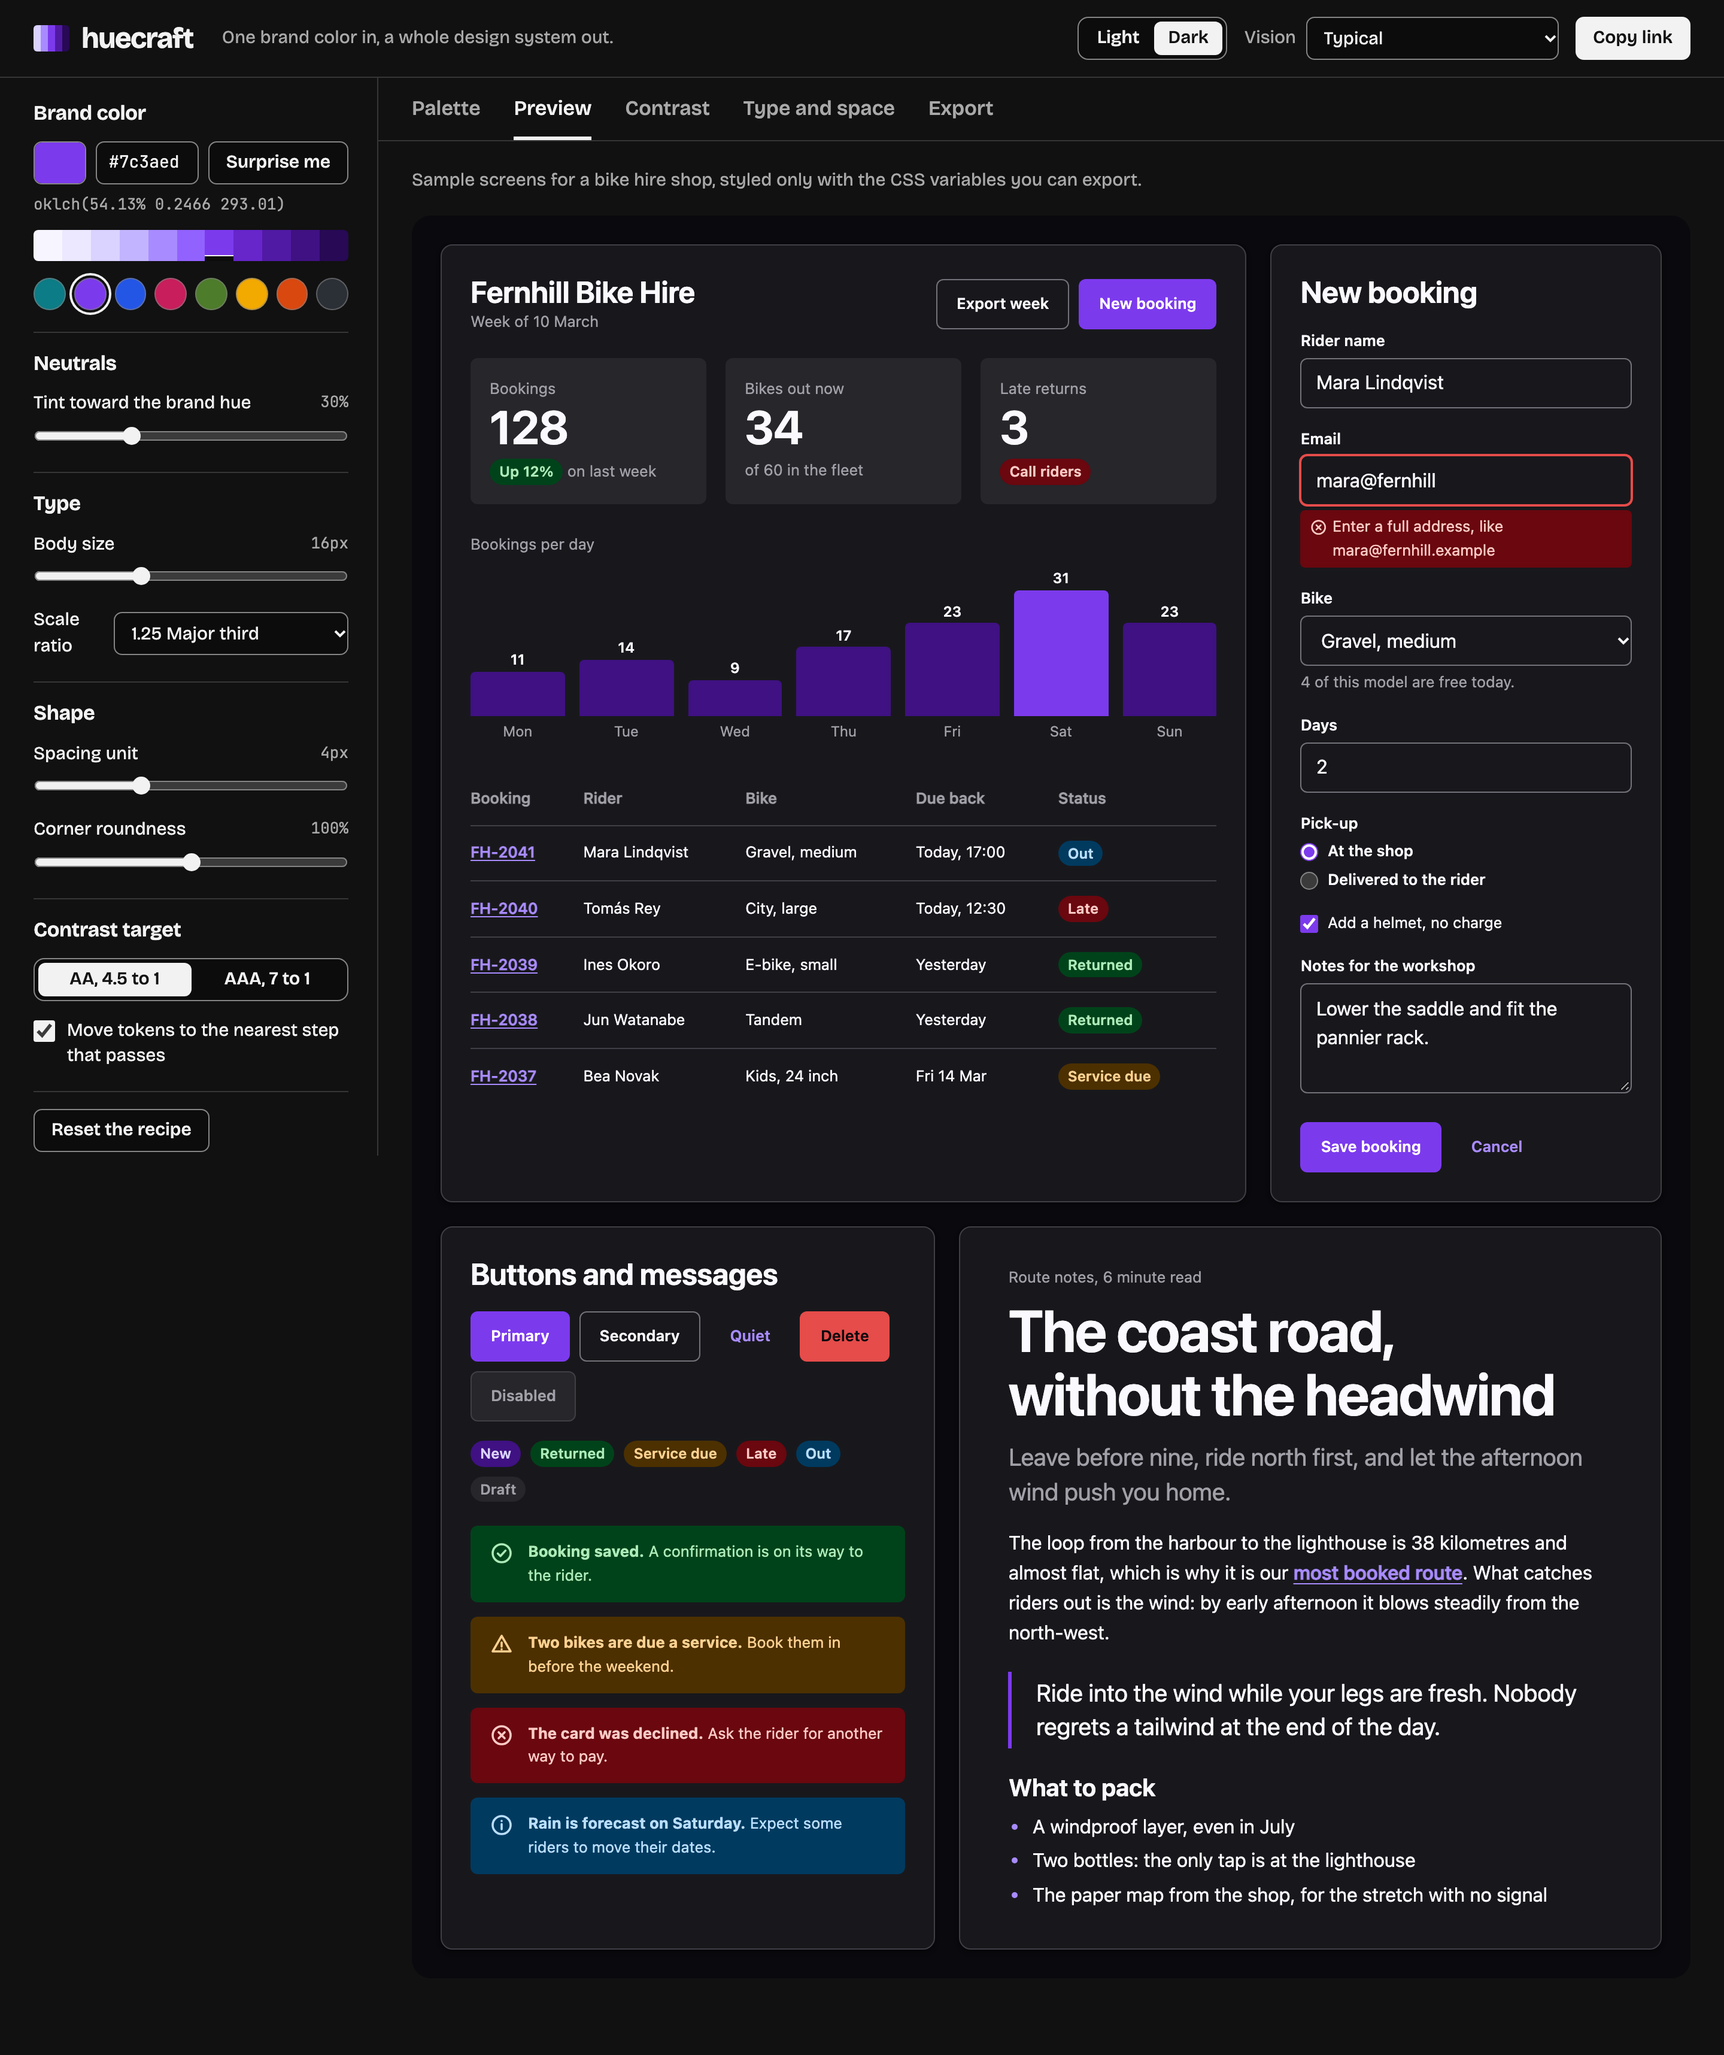
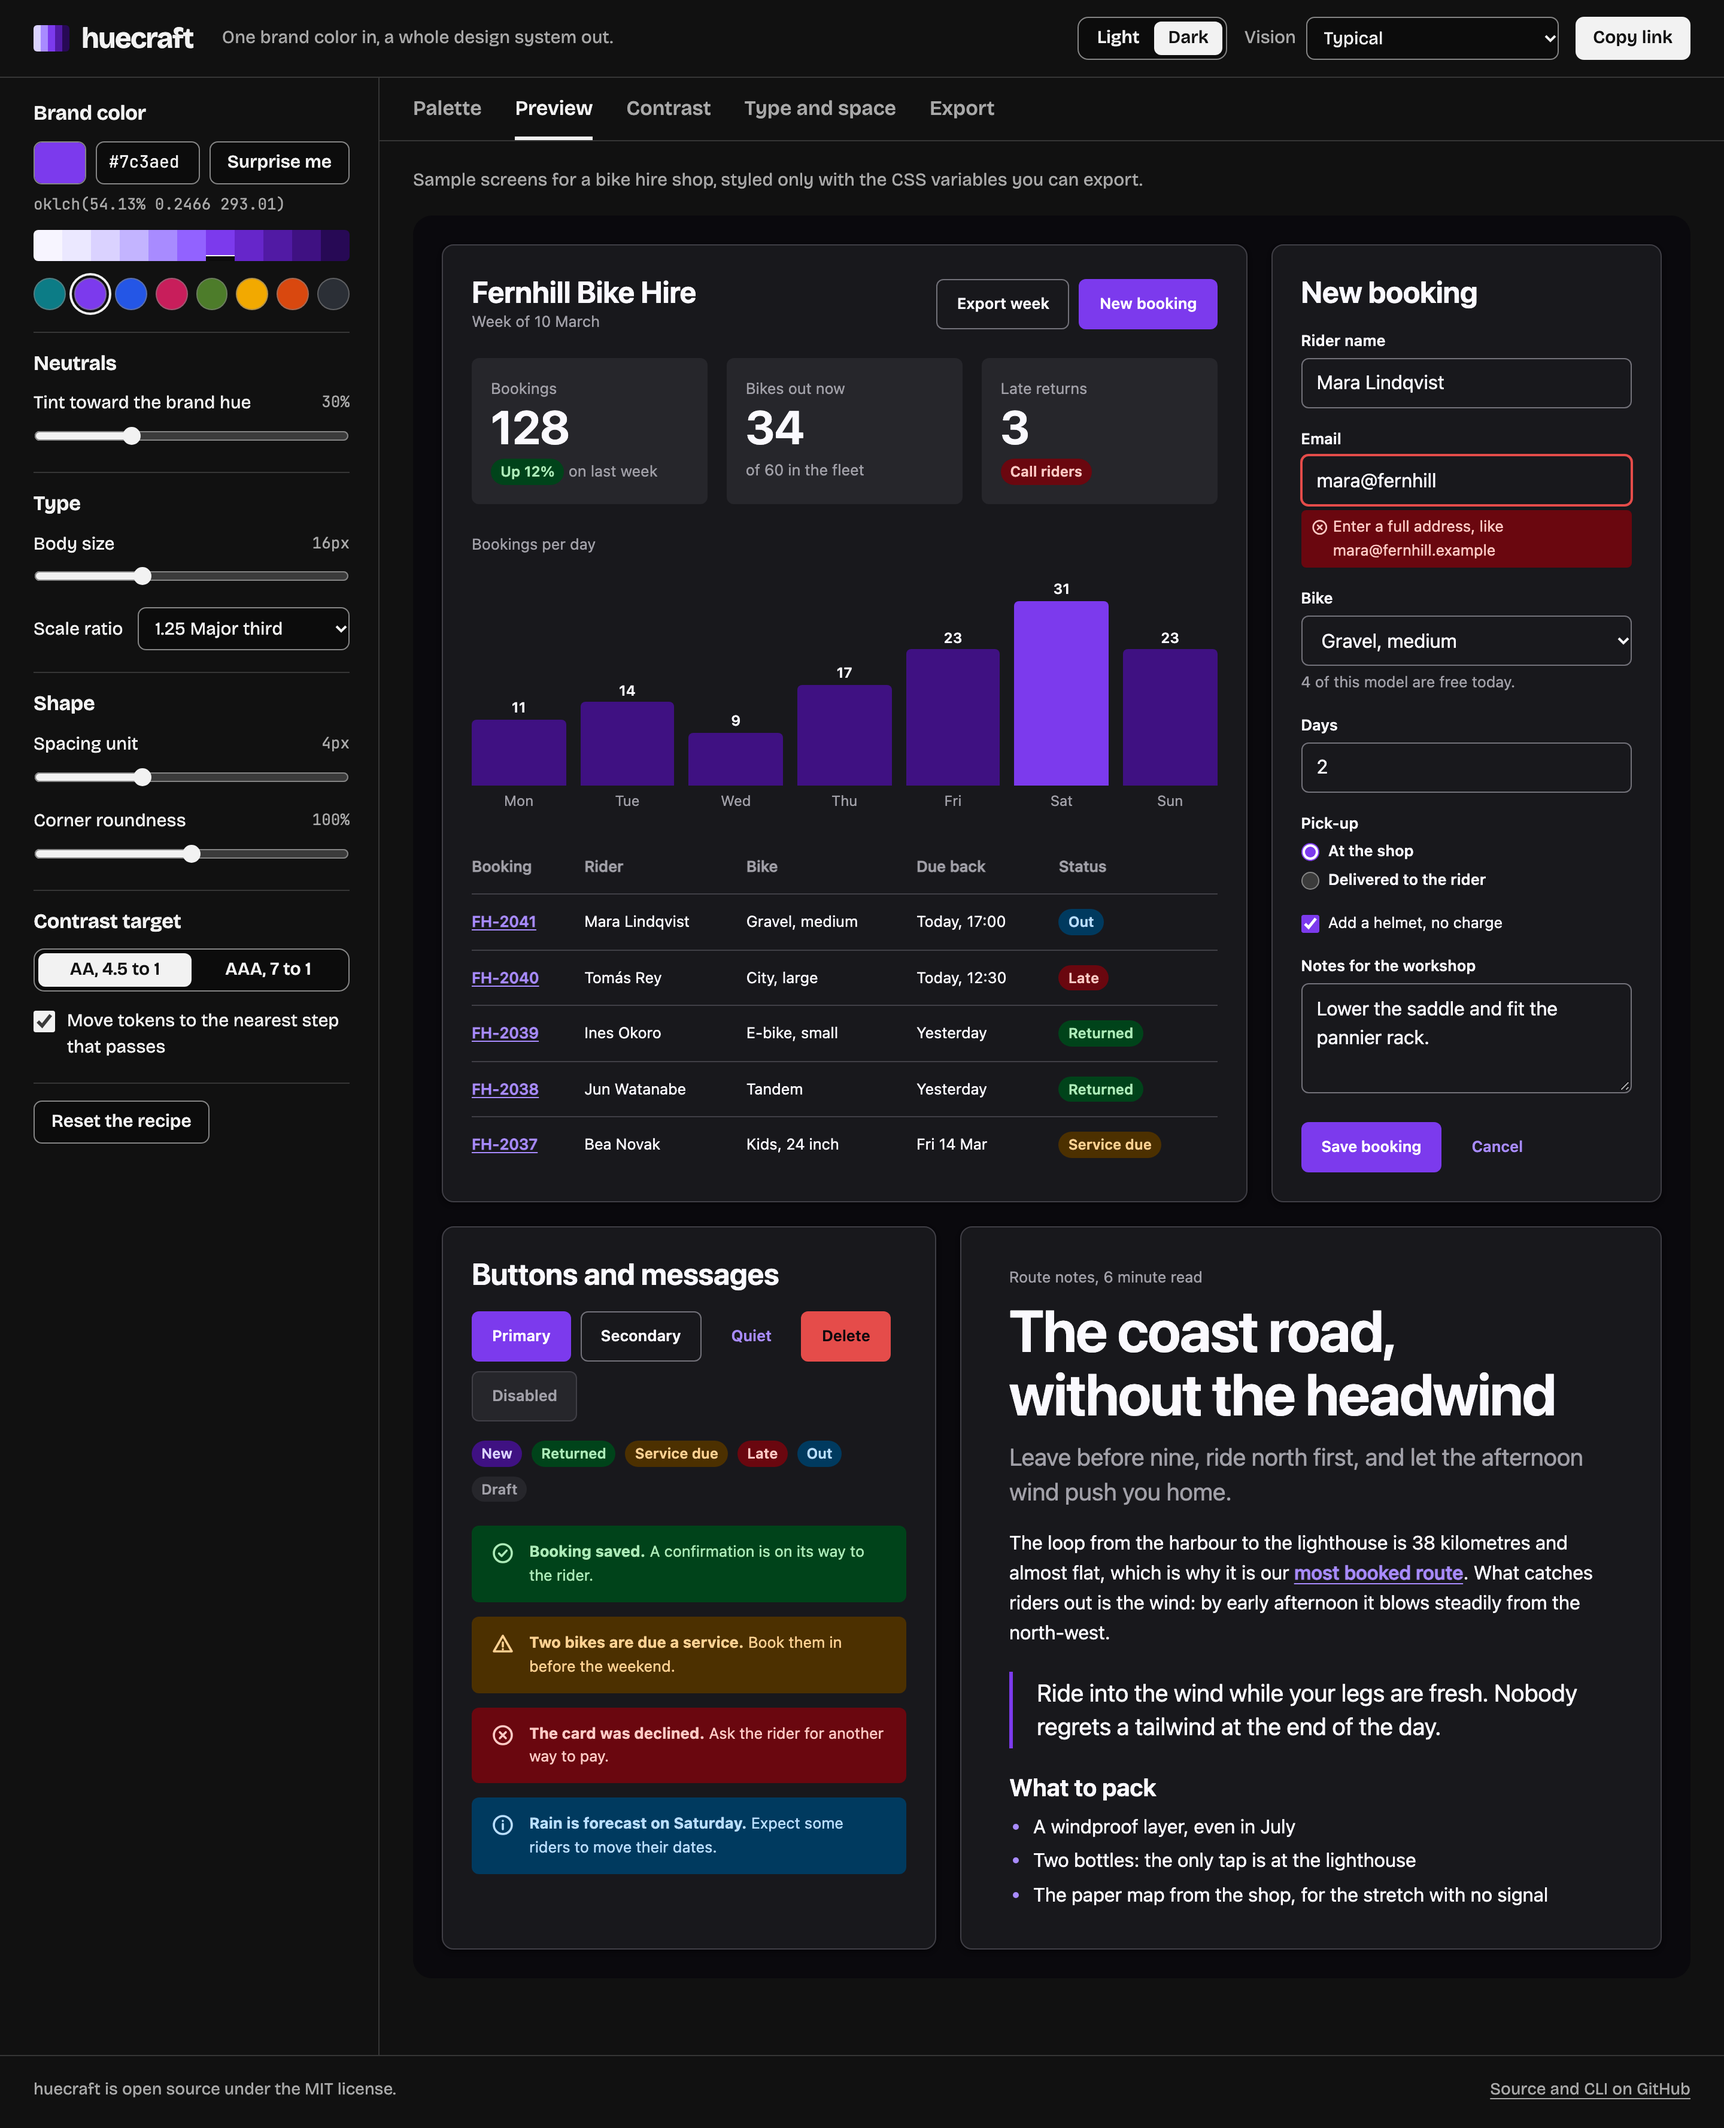
Refresh README screenshots, add phone views, record the design pass

diff --git a/CHANGELOG.md b/CHANGELOG.md
@@ -5,8 +5,30 @@ The format follows [Keep a Changelog](https://keepachangelog.com/en/1.1.0/).
 
 ## [Unreleased]
 
-Changes from an independent first-run review: a fresh clone, the README followed to the letter, then a read of the
-whole codebase.
+Two rounds so far: a design and accessibility pass over the studio (screenshots at 1440, 1280, 1024, 820, 390 and
+320px in both themes, a Tab walk of every panel, Windows contrast themes), and before it an independent first-run
+review (a fresh clone, the README followed to the letter, then a read of the whole codebase).
+
+### Changed in the design pass
+
+- **Tables stack by the room they have.** The token table and the contrast table turn each row into a small grid
+  when their region is too narrow, using container queries. Before, the contrast table scrolled sideways and cut
+  its suggestions off on any screen under about 1400px, because the recipe rail takes 316px.
+- **Phone layout.** Two-row top bar, a format switch that fits one line, the selected tab scrolled into view, the
+  Apply button under the verdict, and a preview table that drops two columns instead of hiding Status off screen.
+- **Tabs are sticky**, so a long panel does not have to be scrolled back up to switch view.
+- **Keyboard.** Each color scale is one Tab stop with arrow keys, Home and End along its swatches (66 stops became
+  6). A table region is a Tab stop only while it has something to scroll.
+- **Windows contrast themes** (`forced-colors`) keep the swatches, samples and preview, and show which option of a
+  switch is selected. Before, every swatch was blank there.
+- Contrast: moved tokens are rows with a swatch for the old and the new step; the matrix keeps its row labels
+  while it scrolls sideways.
+- Smaller things: the rule beside the rail reaches the footer; the preview dashboard has no blank band under its
+  table; radius tiles sit four and three; the dark theme says why its shadows are faint; the color error has an
+  icon, plainer words and `role="alert"`; a `noscript` message; comments set back in the export; the license line
+  moved to a footer.
+- README screenshots refreshed from the running build, with two phone screenshots added
+  (`npm run e2e -- --shots`).
 
 ### Added
 
@@ -62,3 +84,8 @@ First release.
 - Status hues are fixed and the brand color is sRGB only. Both are design limits listed in the README, not bugs.
 - GitHub Pages is not enabled. The Pages workflow is manual only.
 - Ports: dev server 4140, preview 4141, e2e 4142.
+- Layout rules that depend on width belong in the container queries in `chrome.css` ("Tables in a narrow
+  workspace") when they concern the workspace, because the rail changes how much room it has. The media queries
+  are for the page frame only.
+- Not checked in the design pass: a real screen reader, a real phone, Firefox and Safari. Everything was looked at
+  in headless Chromium.

diff --git a/README.md b/README.md
@@ -62,6 +62,16 @@ Run `node dist-cli/cli.js --help` for every option. huecraft is not published to
 | --- | --- |
 | ![Contrast table listing failing pairs and suggested steps](docs/screenshots/contrast.png) | ![Palette as seen with deuteranopia](docs/screenshots/vision.png) |
 
+The studio works on a phone and without a mouse. Where a table has no room for its columns, each row turns into a
+small stacked block instead of scrolling sideways. Tab reaches each color scale once, and the arrow keys, Home and
+End move along its swatches. Motion is cut for people who ask for less of it, and Windows contrast themes keep the
+swatches and the selected states. An axe audit of every tab in both themes runs in CI.
+
+<p>
+  <img src="docs/screenshots/phone-palette.png" width="270" alt="The studio on a phone: brand color controls, then the tabs and the first color scale" />
+  <img src="docs/screenshots/phone-contrast.png" width="270" alt="The contrast check on a phone in the dark theme, one stacked row per color pair" />
+</p>
+
 ## CLI
 
 ```text
